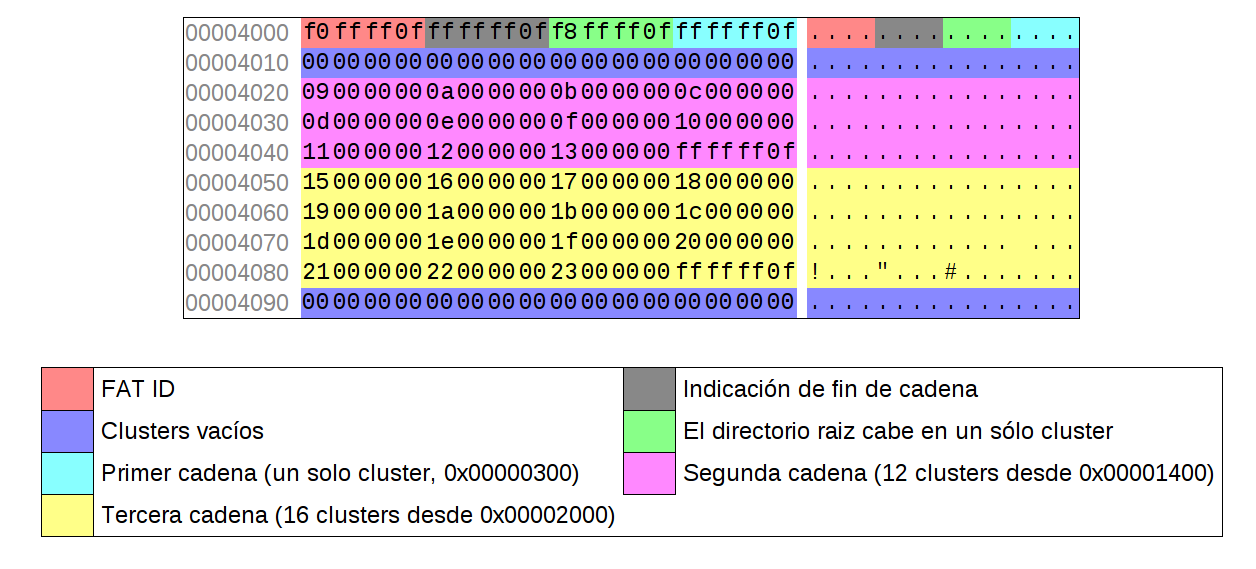
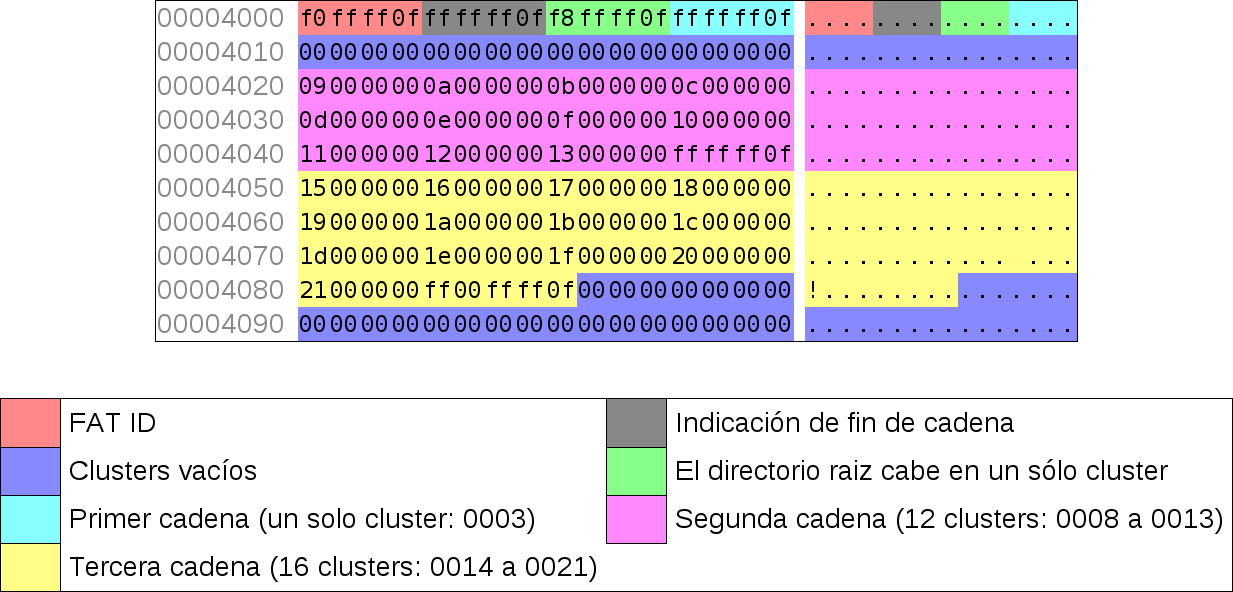
Corrijo detalles menores en la generación/interpretación de la tabla de FAT

diff --git a/img/analisis_grafico_vfat.html b/img/analisis_grafico_vfat.html
@@ -20,7 +20,7 @@ td.pos {
 }
 
 td.txt, td.hex {
-    font-family: Courier;
+    font-family: Monospace;
 }
 
 /* Nombre DOS */
@@ -97,6 +97,7 @@ td.txt, td.hex {
 /* Clusters vacíos */
 .b4010, .b4011, .b4012, .b4013, .b4014, .b4015, .b4016, .b4017,
 .b4018, .b4019, .b401a, .b401b, .b401c, .b401d, .b401e, .b401f,
+.b4089, .b408a, .b408b, .b408c, .b408d, .b408e, .b408f,
 .b4090, .b4091, .b4092, .b4093, .b4094, .b4095, .b4096, .b4097,
 .b4098, .b4099, .b409a, .b409b, .b409c, .b409d, .b409e, .b409f,
  .fc3 {background: #88f;}
@@ -124,8 +125,7 @@ td.txt, td.hex {
 .b4070, .b4071, .b4072, .b4073, .b4074, .b4075, .b4076, .b4077,
 .b4078, .b4079, .b407a, .b407b, .b407c, .b407d, .b407e, .b407f,
 .b4080, .b4081, .b4082, .b4083, .b4084, .b4085, .b4086, .b4087,
-.b4088, .b4089, .b408a, .b408b, .b408c, .b408d, .b408e, .b408f,
-.fc7 {background: #ff8;}
+.b4088, .fc7 {background: #ff8;}
 
 .color {
     width: 2em;
@@ -151,7 +151,7 @@ th {padding:1em; border: solid 1px black;}
   echo 'Tenemos un archivo corto' > /mnt/CORTO1.TXT
   dd if=/dev/zero 'of=/mnt/Un archivo con nombre largo.dat' bs=1024 count=2
   dd if=/dev/zero 'of=/mnt/tercer_archivo' bs=1024 count=6
-  dd if=/dev/zero 'of=/mnt/Un archivo con nombre largo.dat' bs=1024 count=8
+  dd if=/dev/zero 'of=/mnt/Un archivo con nombre largo.dat' bs=1024 count=7
   umount /mnt
   hexdump -C vfat32.img
 </pre>
@@ -1104,28 +1104,28 @@ th {padding:1em; border: solid 1px black;}
 <td class="hex b4081">00</td>
 <td class="hex b4082">00</td>
 <td class="hex b4083">00</td>
-<td class="hex b4084">22</td>
+<td class="hex b4084">ff</td>
 <td class="hex b4085">00</td>
-<td class="hex b4086">00</td>
-<td class="hex b4087">00</td>
-<td class="hex b4088">23</td>
+<td class="hex b4086">ff</td>
+<td class="hex b4087">ff</td>
+<td class="hex b4088">0f</td>
 <td class="hex b4089">00</td>
 <td class="hex b408a">00</td>
 <td class="hex b408b">00</td>
-<td class="hex b408c">ff</td>
-<td class="hex b408d">ff</td>
-<td class="hex b408e">ff</td>
-<td class="hex b408f">0f</td>
+<td class="hex b408c">00</td>
+<td class="hex b408d">00</td>
+<td class="hex b408e">00</td>
+<td class="hex b408f">00</td>
 <td>&nbsp;</td>
 <td class="txt b4080">!</td>
 <td class="txt b4081">.</td>
 <td class="txt b4082">.</td>
 <td class="txt b4083">.</td>
-<td class="txt b4084">&quot;</td>
+<td class="txt b4084">.</td>
 <td class="txt b4085">.</td>
 <td class="txt b4086">.</td>
 <td class="txt b4087">.</td>
-<td class="txt b4088">#</td>
+<td class="txt b4088">.</td>
 <td class="txt b4089">.</td>
 <td class="txt b408a">.</td>
 <td class="txt b408b">.</td>
@@ -1186,13 +1186,15 @@ th {padding:1em; border: solid 1px black;}
 </tr>
 <tr>
   <td class="color fc5">&nbsp;</td>
-  <td class="def">Primer cadena (un solo cluster, 0x00000300)</td>
+  <td class="def">Primer cadena (un solo cluster: 0003)</td>
   <td class="color fc6">&nbsp;</td>
-  <td class="def">Segunda cadena (12 clusters desde 0x00001400)</td>
+  <td class="def">Segunda cadena (12 clusters: 0008 a 0013)</td>
 </tr>
 <tr>
   <td class="color fc7">&nbsp;</td>
-  <td class="def">Tercera cadena (16 clusters desde 0x00002000)</td>
+  <td class="def">Tercera cadena (16 clusters: 0014 a 0021)</td>
+  <td></td>
+  <td></td>
 </tr>
 </table>
 </body>
